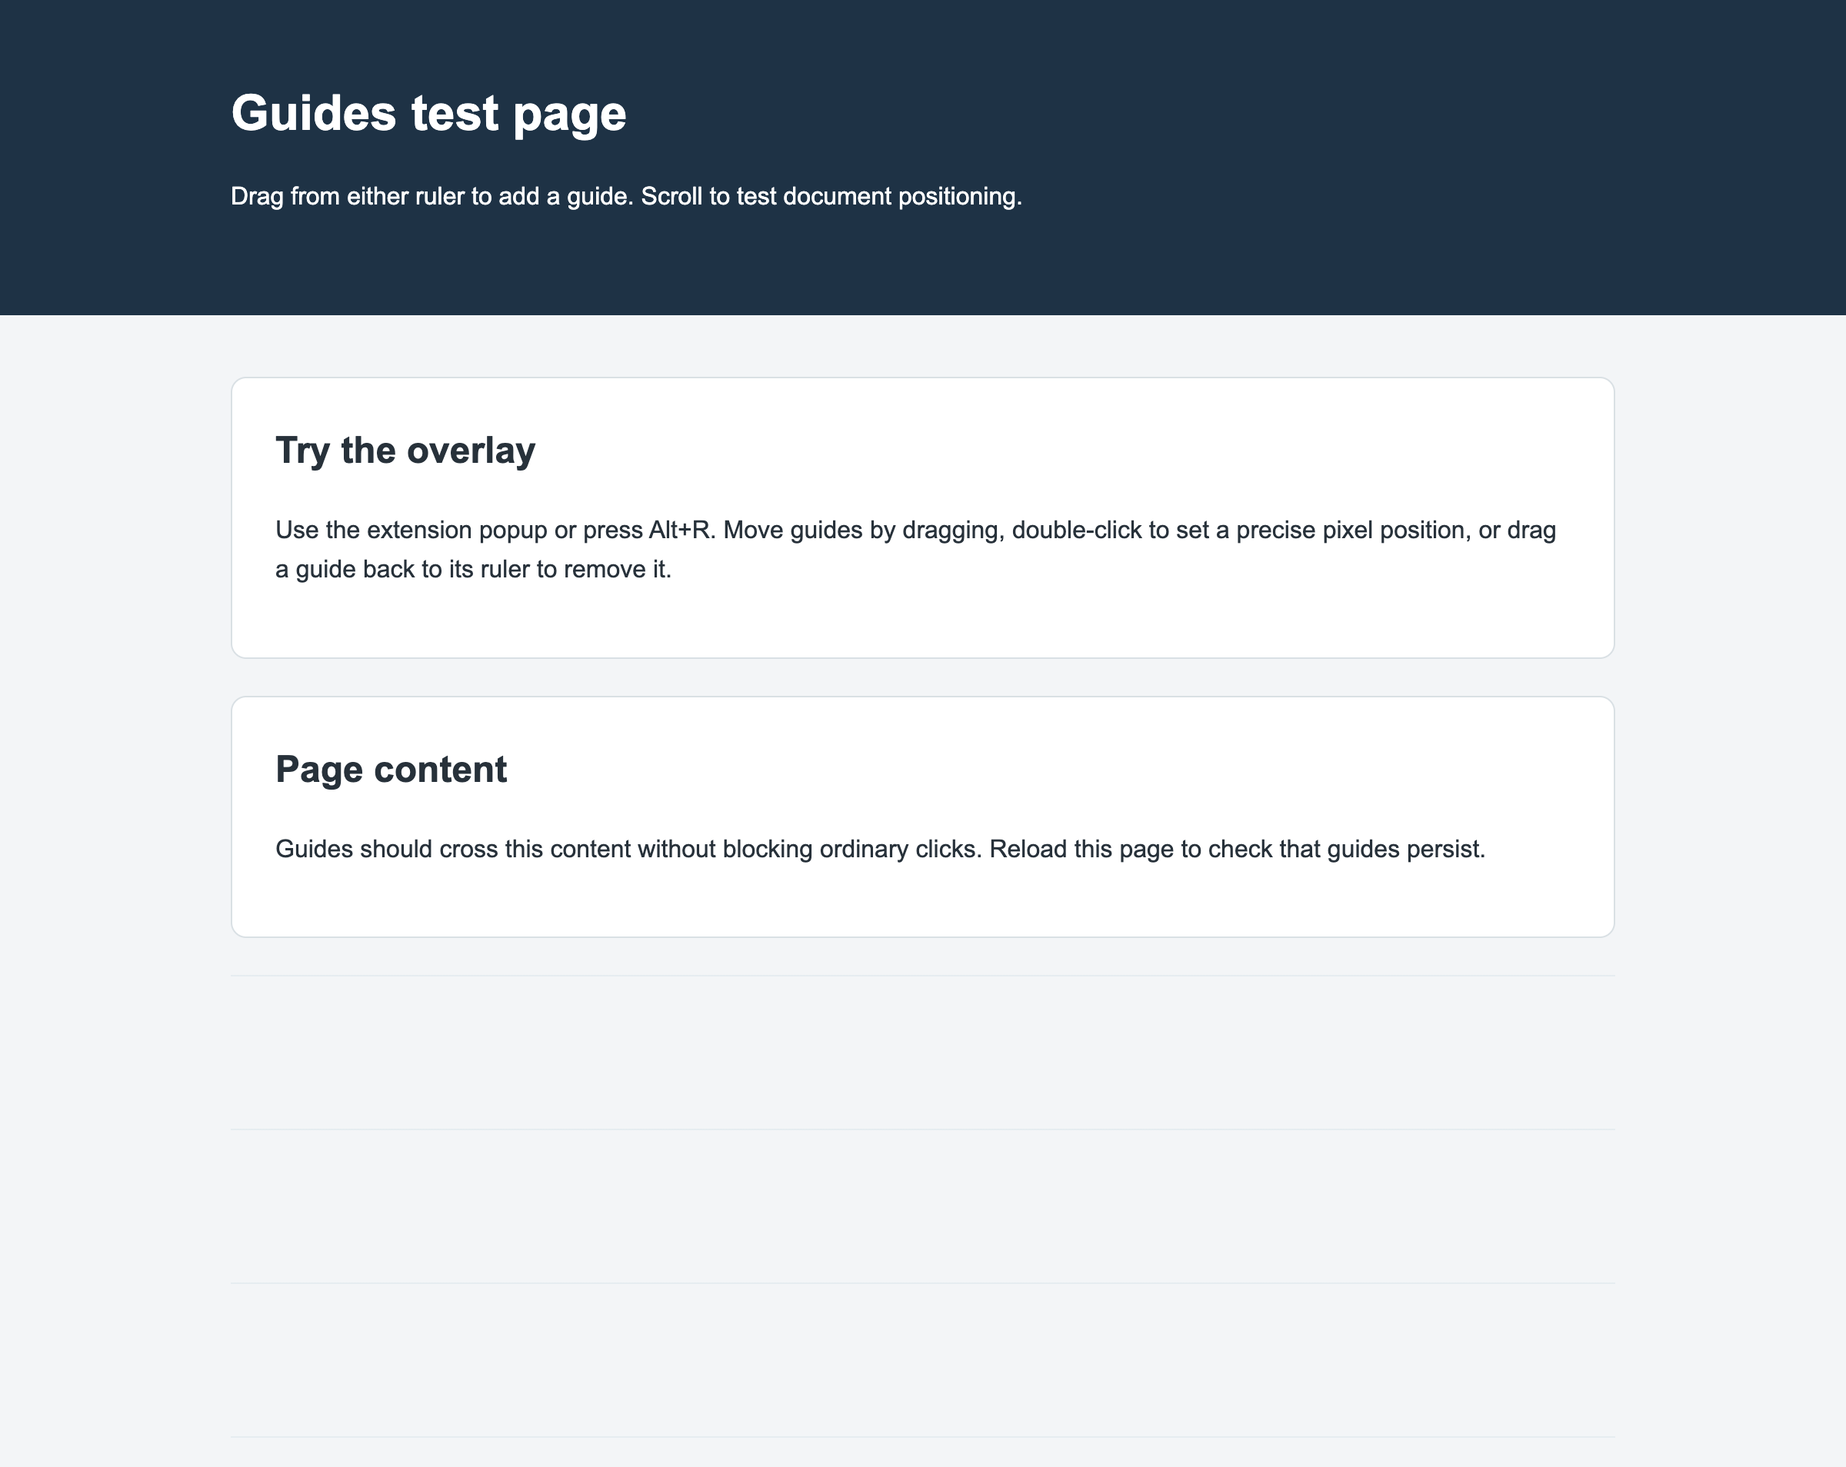
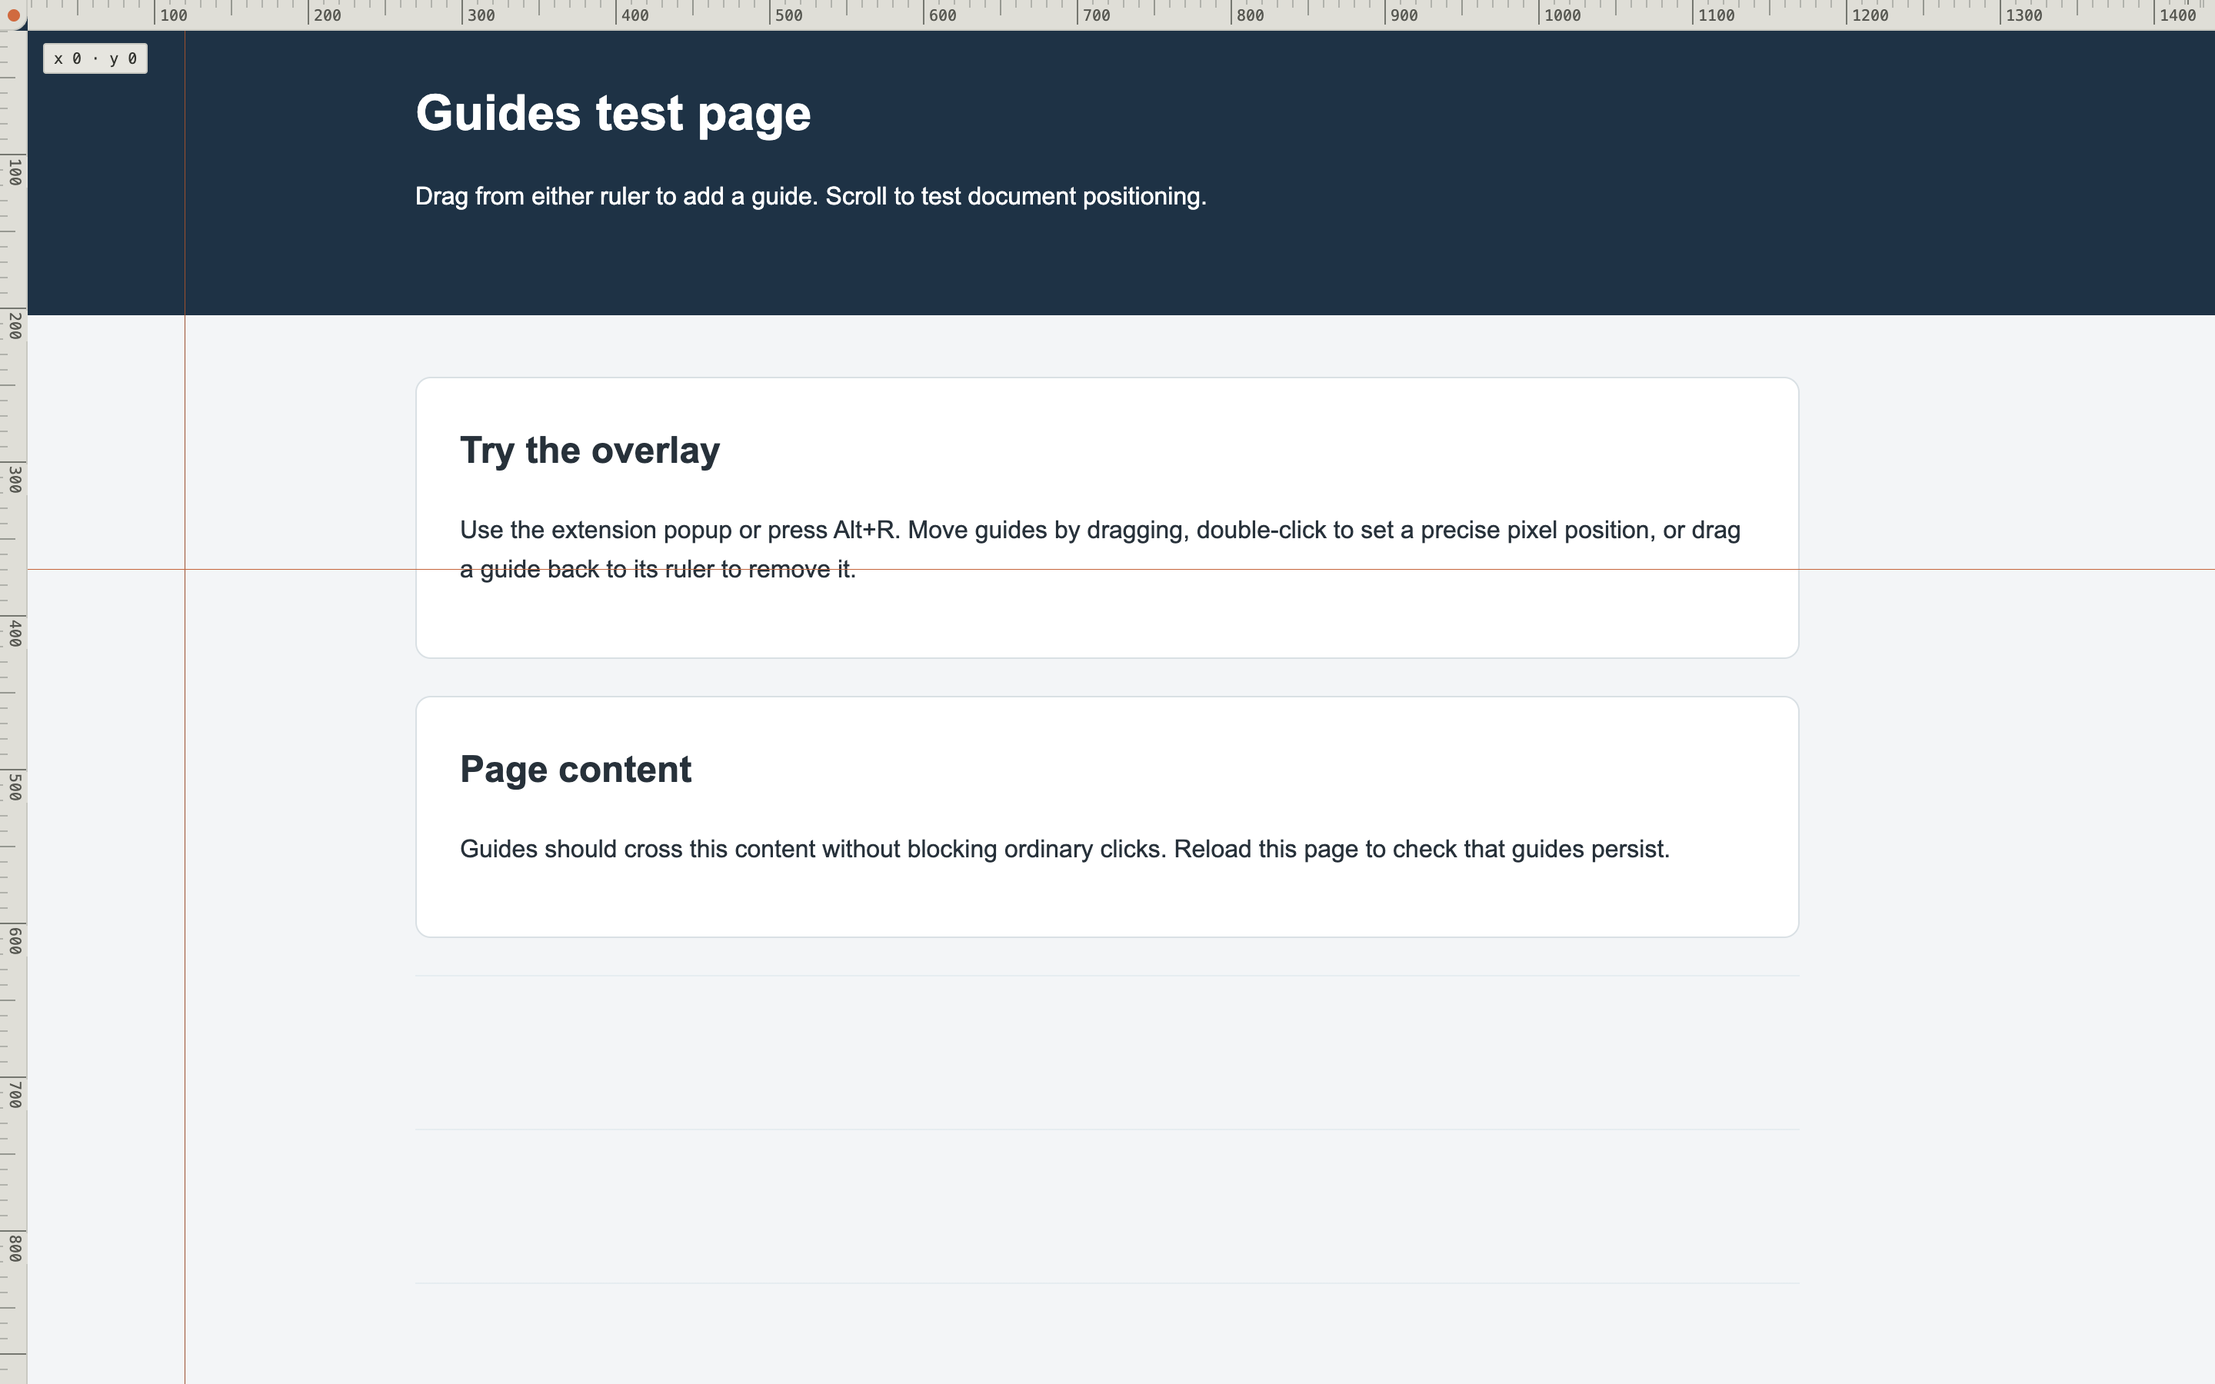
Restore black rulers and expand guide palettes

diff --git a/content.js b/content.js
@@ -5,20 +5,22 @@
   const RULER_TOP = 20;
   const GUIDE_GRAB = 7;
   const palettes = {
-    braun: { guide: "#df6331", accent: "#df6331", readout: "#e6e5de", tag: "#f3f2ec", ink: "#30312c" },
-    cyan: { guide: "#008592", accent: "#008592", readout: "#e2eeec", tag: "#f0f5f3", ink: "#243638" },
-    graphite: { guide: "#73756e", accent: "#55564f", readout: "#e3e3dc", tag: "#f1f1eb", ink: "#2b2c28" }
+    orange: { guide: "#df6331", mirror: "#a84a25", accent: "#df6331", readout: "#e6e5de", tag: "#f3f2ec", ink: "#30312c" },
+    cyan: { guide: "#008592", mirror: "#00525c", accent: "#008592", readout: "#e2eeec", tag: "#f0f5f3", ink: "#243638" },
+    pink: { guide: "#d24d77", mirror: "#8f3150", accent: "#d24d77", readout: "#eee3e7", tag: "#f7eef1", ink: "#382a30" },
+    green: { guide: "#6c8c55", mirror: "#466132", accent: "#6c8c55", readout: "#e7e9df", tag: "#f0f1ea", ink: "#2e352a" },
+    blue: { guide: "#3975b8", mirror: "#214d80", accent: "#3975b8", readout: "#e2e8f0", tag: "#f0f4f8", ink: "#283342" }
   };
   const host = document.createElement("div");
   host.style.cssText = "all:initial;position:fixed;inset:0;z-index:2147483647;pointer-events:none";
   const shadow = host.attachShadow({ mode: "closed" });
   const style = document.createElement("style");
   style.textContent = `
-    *{box-sizing:border-box}.ruler{position:fixed;background:#dfded6;color:#55564f;pointer-events:auto;font:10px/1.2 ui-monospace,SFMono-Regular,Menlo,monospace;user-select:none;touch-action:none}
-    #top{left:${RULER_LEFT}px;right:0;top:0;height:${RULER_TOP}px;border-bottom:1px solid #c9c9c1;background-image:repeating-linear-gradient(90deg,#74776f 0 1px,transparent 1px 100px),repeating-linear-gradient(90deg,#969890 0 1px,transparent 1px 50px),repeating-linear-gradient(90deg,#b1b2ab 0 1px,transparent 1px 10px);background-size:100% 16px,100% 10px,100% 5px;background-repeat:repeat-x}
-    #left{top:${RULER_TOP}px;bottom:0;left:0;width:${RULER_LEFT}px;border-right:1px solid #c9c9c1;background-image:repeating-linear-gradient(180deg,#74776f 0 1px,transparent 1px 100px),repeating-linear-gradient(180deg,#969890 0 1px,transparent 1px 50px),repeating-linear-gradient(180deg,#b1b2ab 0 1px,transparent 1px 10px);background-size:${RULER_LEFT}px 100%,10px 100%,5px 100%;background-repeat:repeat-y}
-    #corner{left:0;top:0;width:${RULER_LEFT}px;height:${RULER_TOP}px;z-index:3;cursor:crosshair;background:#dfded6;border-right:1px solid #c9c9c1;border-bottom:1px solid #c9c9c1;border-radius:0 0 10px 0}#corner:after{content:"";position:absolute;left:5px;top:6px;width:8px;height:8px;border-radius:50%;background:var(--palette-accent,#df6331)}
-    .label{position:absolute;white-space:nowrap;background:#dfded6;padding:1px 2px}.h-label{top:3px}.v-label{left:2px;writing-mode:vertical-rl}.readout{position:fixed;z-index:4;top:${RULER_TOP + 8}px;left:${RULER_LEFT + 10}px;background:var(--readout-bg,#e6e5de);color:var(--palette-ink,#30312c);border:1px solid #c9c9c1;padding:3px 6px;border-radius:2px;font:10px ui-monospace,SFMono-Regular,Menlo,monospace;pointer-events:none}
+    *{box-sizing:border-box}.ruler{position:fixed;background:#171a20;color:#f2ece0;pointer-events:auto;font:10px/1.2 ui-monospace,SFMono-Regular,Menlo,monospace;user-select:none;touch-action:none}
+    #top{left:${RULER_LEFT}px;right:0;top:0;height:${RULER_TOP}px;border-bottom:1px solid #4a4c47;background-image:repeating-linear-gradient(90deg,#f2ece0 0 1px,transparent 1px 100px),repeating-linear-gradient(90deg,#d0cabe 0 1px,transparent 1px 50px),repeating-linear-gradient(90deg,#65655f 0 1px,transparent 1px 10px);background-size:100% 16px,100% 10px,100% 5px;background-repeat:repeat-x}
+    #left{top:${RULER_TOP}px;bottom:0;left:0;width:${RULER_LEFT}px;border-right:1px solid #4a4c47;background-image:repeating-linear-gradient(180deg,#f2ece0 0 1px,transparent 1px 100px),repeating-linear-gradient(180deg,#d0cabe 0 1px,transparent 1px 50px),repeating-linear-gradient(180deg,#65655f 0 1px,transparent 1px 10px);background-size:${RULER_LEFT}px 100%,10px 100%,5px 100%;background-repeat:repeat-y}
+    #corner{left:0;top:0;width:${RULER_LEFT}px;height:${RULER_TOP}px;z-index:3;cursor:crosshair;background:#171a20;border-right:1px solid #4a4c47;border-bottom:1px solid #4a4c47;border-radius:0 0 10px 0}#corner:after{content:"";position:absolute;left:5px;top:6px;width:8px;height:8px;border-radius:50%;background:var(--palette-accent,#df6331)}
+    .label{position:absolute;white-space:nowrap;background:#171a20;padding:1px 2px}.h-label{top:3px}.v-label{left:2px;writing-mode:vertical-rl}.readout{position:fixed;z-index:4;top:${RULER_TOP + 8}px;left:${RULER_LEFT + 10}px;background:var(--readout-bg,#e6e5de);color:var(--palette-ink,#30312c);border:1px solid #c9c9c1;padding:3px 6px;border-radius:2px;font:10px ui-monospace,SFMono-Regular,Menlo,monospace;pointer-events:none}
     .guide{position:absolute;pointer-events:auto;touch-action:none}.horizontal{left:${RULER_LEFT}px;right:0;height:${GUIDE_GRAB}px;transform:translateY(-50%);cursor:ns-resize}.vertical{top:${RULER_TOP}px;bottom:0;width:${GUIDE_GRAB}px;transform:translateX(-50%);cursor:ew-resize}.line{position:absolute;background:var(--guide-color,#df6331);pointer-events:none}.horizontal .line{height:var(--guide-hairline,1px);left:0;right:0;top:var(--guide-inset,3px)}.vertical .line{width:var(--guide-hairline,1px);top:0;bottom:0;left:var(--guide-inset,3px)}
     .tag{position:fixed;background:var(--tag-bg,#f3f2ec);color:var(--palette-ink,#30312c);border:1px solid #c9c9c1;border-radius:3px;padding:3px 6px;font:10px ui-monospace,SFMono-Regular,Menlo,monospace;pointer-events:none;white-space:nowrap;z-index:5}.hidden{display:none!important}`;
   shadow.append(style);
@@ -29,10 +31,10 @@
   shadow.append(top, left, corner, readout);
   document.documentElement.append(host);
 
-  let active = false, visibleGuides = true, separate = false, paletteName = "braun", guides = [], dragging = null, densityQuery = null;
+  let active = false, visibleGuides = true, separate = false, paletteName = "orange", guides = [], dragging = null, densityQuery = null;
   const pageKey = `guides:${location.origin}${location.pathname}${location.search}`;
   const storageKey = () => separate ? pageKey : "guides:shared";
-  const palette = () => palettes[paletteName] || palettes.braun;
+  const palette = () => palettes[paletteName] || palettes.orange;
   const documentSize = axis => axis === "v"
     ? Math.max(document.documentElement.scrollWidth, document.body?.scrollWidth || 0, document.documentElement.clientWidth, innerWidth)
     : Math.max(document.documentElement.scrollHeight, document.body?.scrollHeight || 0, document.documentElement.clientHeight, innerHeight);
@@ -118,7 +120,7 @@
     if (message.type === "toggle") { active = !active; chrome.storage.local.set({ overlayEnabled: active }); if (active) chrome.storage.local.get(storageKey(), restoreGuides); else paint(); }
     if (message.type === "toggle-guides") { visibleGuides = !visibleGuides; chrome.storage.local.set({ guidesVisible: visibleGuides }); paint(); }
     if (message.type === "clear-guides") { guides.forEach(guide => guide.el.remove()); guides = []; save(); }
-    if (message.type === "set-palette") { paletteName = palettes[message.palette] ? message.palette : "braun"; applyPalette(); renderAll(); }
+    if (message.type === "set-palette") { paletteName = palettes[message.palette] ? message.palette : "orange"; applyPalette(); renderAll(); }
     if (message.type === "set-separate") {
       const current = guides.map(({ axis, position }) => ({ axis, position }));
       chrome.storage.local.set({ [storageKey()]: current }).then(() => {
@@ -134,7 +136,7 @@
   updateDensity(); applyPalette();
   chrome.storage.local.get(["overlayEnabled", "guidesVisible", "separate", "palette", "guideColor"], result => {
     active = result.overlayEnabled === true; visibleGuides = result.guidesVisible !== false; separate = result.separate === true;
-    paletteName = palettes[result.palette] ? result.palette : "braun"; applyPalette();
+    paletteName = palettes[result.palette] ? result.palette : "orange"; applyPalette();
     if (result.palette !== paletteName) chrome.storage.local.set({ palette: paletteName });
     if (result.guideColor) chrome.storage.local.remove("guideColor");
     chrome.storage.local.get(storageKey(), restoreGuides);

diff --git a/popup.css b/popup.css
@@ -1,1 +1,30 @@
-*{box-sizing:border-box}body{width:400px;margin:0;background:#ececec;color:#252525;font:14px/1.25 ui-monospace,SFMono-Regular,Menlo,monospace;letter-spacing:0}main{padding:56px 48px 48px}.wordmark{margin:0 0 102px;font:700 32px/1 ui-monospace,SFMono-Regular,Menlo,monospace;letter-spacing:-.035em;color:#202020}.wordmark span{color:#ff5a00}.rows{display:grid;grid-template-columns:1fr}.row{display:flex;align-items:center;justify-content:space-between;min-height:60px;padding:0;color:#666;font:400 14px/1.2 ui-monospace,SFMono-Regular,Menlo,monospace;letter-spacing:0}.row button{font:inherit}.pill{position:relative;width:46px;height:28px;border-radius:16px;background:#cecece;transition:background-color .14s ease}.pill i{position:absolute;top:3px;left:3px;width:22px;height:22px;border-radius:50%;background:#fff;box-shadow:0 1px 2px #0002;transition:transform .14s ease}.row[aria-pressed=true] .pill{background:#ff5a00}.row[aria-pressed=true] .pill i{transform:translateX(18px)}button{cursor:pointer}.row:focus-visible,.swatch:focus-visible,.clear:focus-visible,input:focus-visible{outline:2px solid #ff5a00;outline-offset:3px}.row{border:0;background:transparent;text-align:left}.separate input{appearance:none;position:relative;flex:none;width:46px;height:28px;margin:0;border:0;border-radius:16px;background:#cecece;cursor:pointer;transition:background-color .14s ease}.separate input:before{content:"";position:absolute;top:3px;left:3px;width:22px;height:22px;border-radius:50%;background:#fff;box-shadow:0 1px 2px #0002;transition:transform .14s ease}.separate input:checked{background:#ff5a00}.separate input:checked:before{transform:translateX(18px)}.swatches{display:flex;align-items:center;gap:11px}.swatch{display:flex;align-items:center;justify-content:center;width:25px;height:25px;padding:0;border:0;border-radius:50%;background:transparent}.swatch i{display:block;width:14px;height:14px;border-radius:50%}.swatch.braun i{background:#df6331}.swatch.cyan i{background:#008592}.swatch.graphite i{background:#73756e}.swatch[aria-pressed=true]{box-shadow:0 0 0 2px #ececec,0 0 0 3px #777}.clear{display:block;margin:42px 0 0;padding:0;border:0;background:transparent;color:#747474;text-align:left;font:400 14px/1.4 ui-monospace,SFMono-Regular,Menlo,monospace;letter-spacing:0}.clear:hover{color:#ff5a00}
+* { box-sizing: border-box }
+body { width: 400px; margin: 0; background: #ececec; color: #252525; font: 14px/1.25 ui-monospace, SFMono-Regular, Menlo, monospace; letter-spacing: 0 }
+main { padding: 56px 48px 48px }
+.wordmark { margin: 0 0 102px; color: #202020; font: 700 32px/1 ui-monospace, SFMono-Regular, Menlo, monospace; letter-spacing: -.035em }
+.wordmark span { color: #ff5a00 }
+.rows { display: grid; grid-template-columns: 1fr }
+.row { display: flex; align-items: center; justify-content: space-between; min-height: 60px; padding: 0; color: #666; font: 400 14px/1.2 ui-monospace, SFMono-Regular, Menlo, monospace; letter-spacing: 0 }
+.row button { font: inherit }
+.pill { position: relative; width: 46px; height: 28px; border-radius: 16px; background: #cecece; transition: background-color .14s ease }
+.pill i { position: absolute; top: 3px; left: 3px; width: 22px; height: 22px; border-radius: 50%; background: #fff; box-shadow: 0 1px 2px #0002; transition: transform .14s ease }
+.row[aria-pressed=true] .pill { background: #ff5a00 }
+.row[aria-pressed=true] .pill i { transform: translateX(18px) }
+button { cursor: pointer }
+.row:focus-visible, .swatch:focus-visible, .clear:focus-visible, input:focus-visible { outline: 2px solid #ff5a00; outline-offset: 3px }
+.row { border: 0; background: transparent; text-align: left }
+.separate input { appearance: none; position: relative; flex: none; width: 46px; height: 28px; margin: 0; border: 0; border-radius: 16px; background: #cecece; cursor: pointer; transition: background-color .14s ease }
+.separate input:before { content: ""; position: absolute; top: 3px; left: 3px; width: 22px; height: 22px; border-radius: 50%; background: #fff; box-shadow: 0 1px 2px #0002; transition: transform .14s ease }
+.separate input:checked { background: #ff5a00 }
+.separate input:checked:before { transform: translateX(18px) }
+.swatches { display: flex; align-items: center; gap: 11px }
+.swatch { display: flex; align-items: center; justify-content: center; width: 25px; height: 25px; padding: 0; border: 0; border-radius: 50%; background: transparent }
+.swatch i { display: block; width: 14px; height: 14px; border-radius: 50% }
+.swatch.orange i { background: #df6331 }
+.swatch.cyan i { background: #008592 }
+.swatch.pink i { background: #d24d77 }
+.swatch.green i { background: #6c8c55 }
+.swatch.blue i { background: #3975b8 }
+.swatch[aria-pressed=true] { box-shadow: 0 0 0 2px #ececec, 0 0 0 3px #777 }
+.clear { display: block; margin: 42px 0 0; padding: 0; border: 0; background: transparent; color: #747474; text-align: left; font: 400 14px/1.4 ui-monospace, SFMono-Regular, Menlo, monospace; letter-spacing: 0 }
+.clear:hover { color: #ff5a00 }

diff --git a/popup.html b/popup.html
@@ -14,9 +14,11 @@
       <button id="guides" class="row" type="button" aria-pressed="true"><span>Guides visible</span><span class="pill"><i></i></span></button>
       <label class="row separate" for="separate"><span>Separate per page</span><input id="separate" type="checkbox"></label>
       <div class="row palette-row"><span>Palette</span><div class="swatches" role="group" aria-label="Palette">
-        <button class="swatch braun" type="button" data-palette="braun" aria-label="Braun palette" aria-pressed="true" title="Braun"><i></i></button>
+        <button class="swatch orange" type="button" data-palette="orange" aria-label="Orange palette" aria-pressed="true" title="Orange"><i></i></button>
         <button class="swatch cyan" type="button" data-palette="cyan" aria-label="Cyan palette" aria-pressed="false" title="Cyan"><i></i></button>
-        <button class="swatch graphite" type="button" data-palette="graphite" aria-label="Graphite palette" aria-pressed="false" title="Graphite"><i></i></button>
+        <button class="swatch pink" type="button" data-palette="pink" aria-label="Pink palette" aria-pressed="false" title="Pink"><i></i></button>
+        <button class="swatch green" type="button" data-palette="green" aria-label="Green palette" aria-pressed="false" title="Green"><i></i></button>
+        <button class="swatch blue" type="button" data-palette="blue" aria-label="Blue palette" aria-pressed="false" title="Blue"><i></i></button>
       </div></div>
     </section>
     <button id="clear" class="clear" type="button">Clear guides</button>

diff --git a/popup.js b/popup.js
@@ -26,7 +26,7 @@ const separateInput = document.querySelector("#separate");
 const swatches = [...document.querySelectorAll(".swatch")];
 let rulersEnabled = false;
 let guidesVisible = true;
-let palette = "braun";
+let palette = "orange";
 
 const render = () => {
   rulersButton.setAttribute("aria-pressed", String(rulersEnabled));
@@ -56,7 +56,7 @@ chrome.storage.local.get(["overlayEnabled", "guidesVisible", "separate", "palett
   rulersEnabled = result.overlayEnabled === true;
   guidesVisible = result.guidesVisible !== false;
   separateInput.checked = result.separate === true;
-  palette = ["braun", "cyan", "graphite"].includes(result.palette) ? result.palette : "braun";
+  palette = ["orange", "cyan", "pink", "green", "blue"].includes(result.palette) ? result.palette : "orange";
   if (result.palette !== palette) chrome.storage.local.set({ palette });
   if (result.guideColor) chrome.storage.local.remove("guideColor");
   render();

diff --git a/README.md b/README.md
@@ -22,7 +22,8 @@ Open `test/lab.html` to compare the three static ruler treatments. The lab is se
 - Drag a guide to move it; drag it back onto its ruler to remove it.
 - Double-click a guide to enter its exact position in CSS pixels.
 - `Alt+R` toggles the overlay, `Alt+Shift+R` toggles guide visibility, and `Alt+Shift+C` clears guides. Chrome lets you change these under `chrome://extensions/shortcuts`.
-- The popup toggles rulers and guide visibility, clears guides, and selects one of three palettes: Braun, Cyan, or Graphite.
+- The popup toggles rulers and guide visibility, clears guides, and selects one of five single-dot palettes: Orange, Cyan, Pink, Green, or Blue.
+- A saved Graphite palette selection migrates to Orange.
 - With **Separate guides per page** off, guides are shared across pages. Turn it on to store a separate set for each page URL. Guides use document coordinates; rulers stay in the viewport.
 - Each palette sets the guide, centre-to-edge shade, tag, and readout colours. Guides shade smoothly toward 30% darker at document edges, measured from the horizontal and vertical document centres.
 
